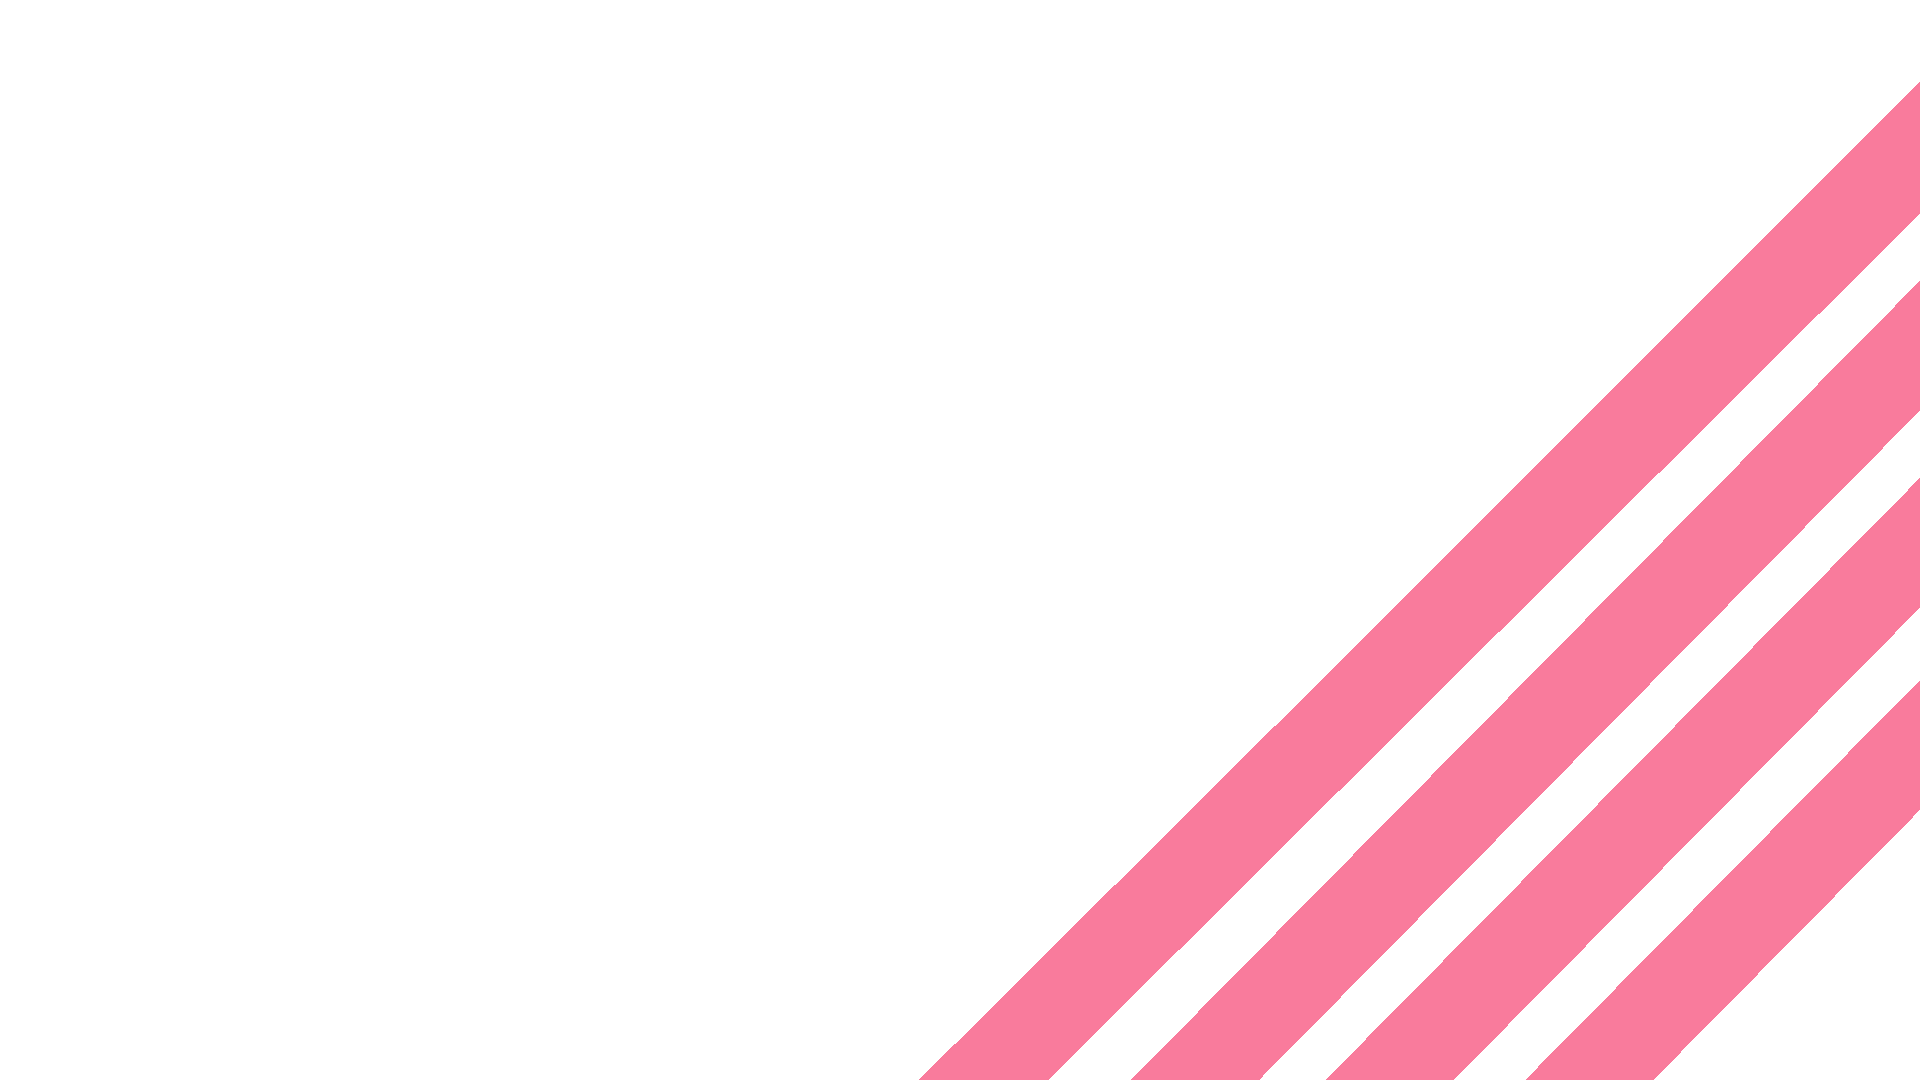
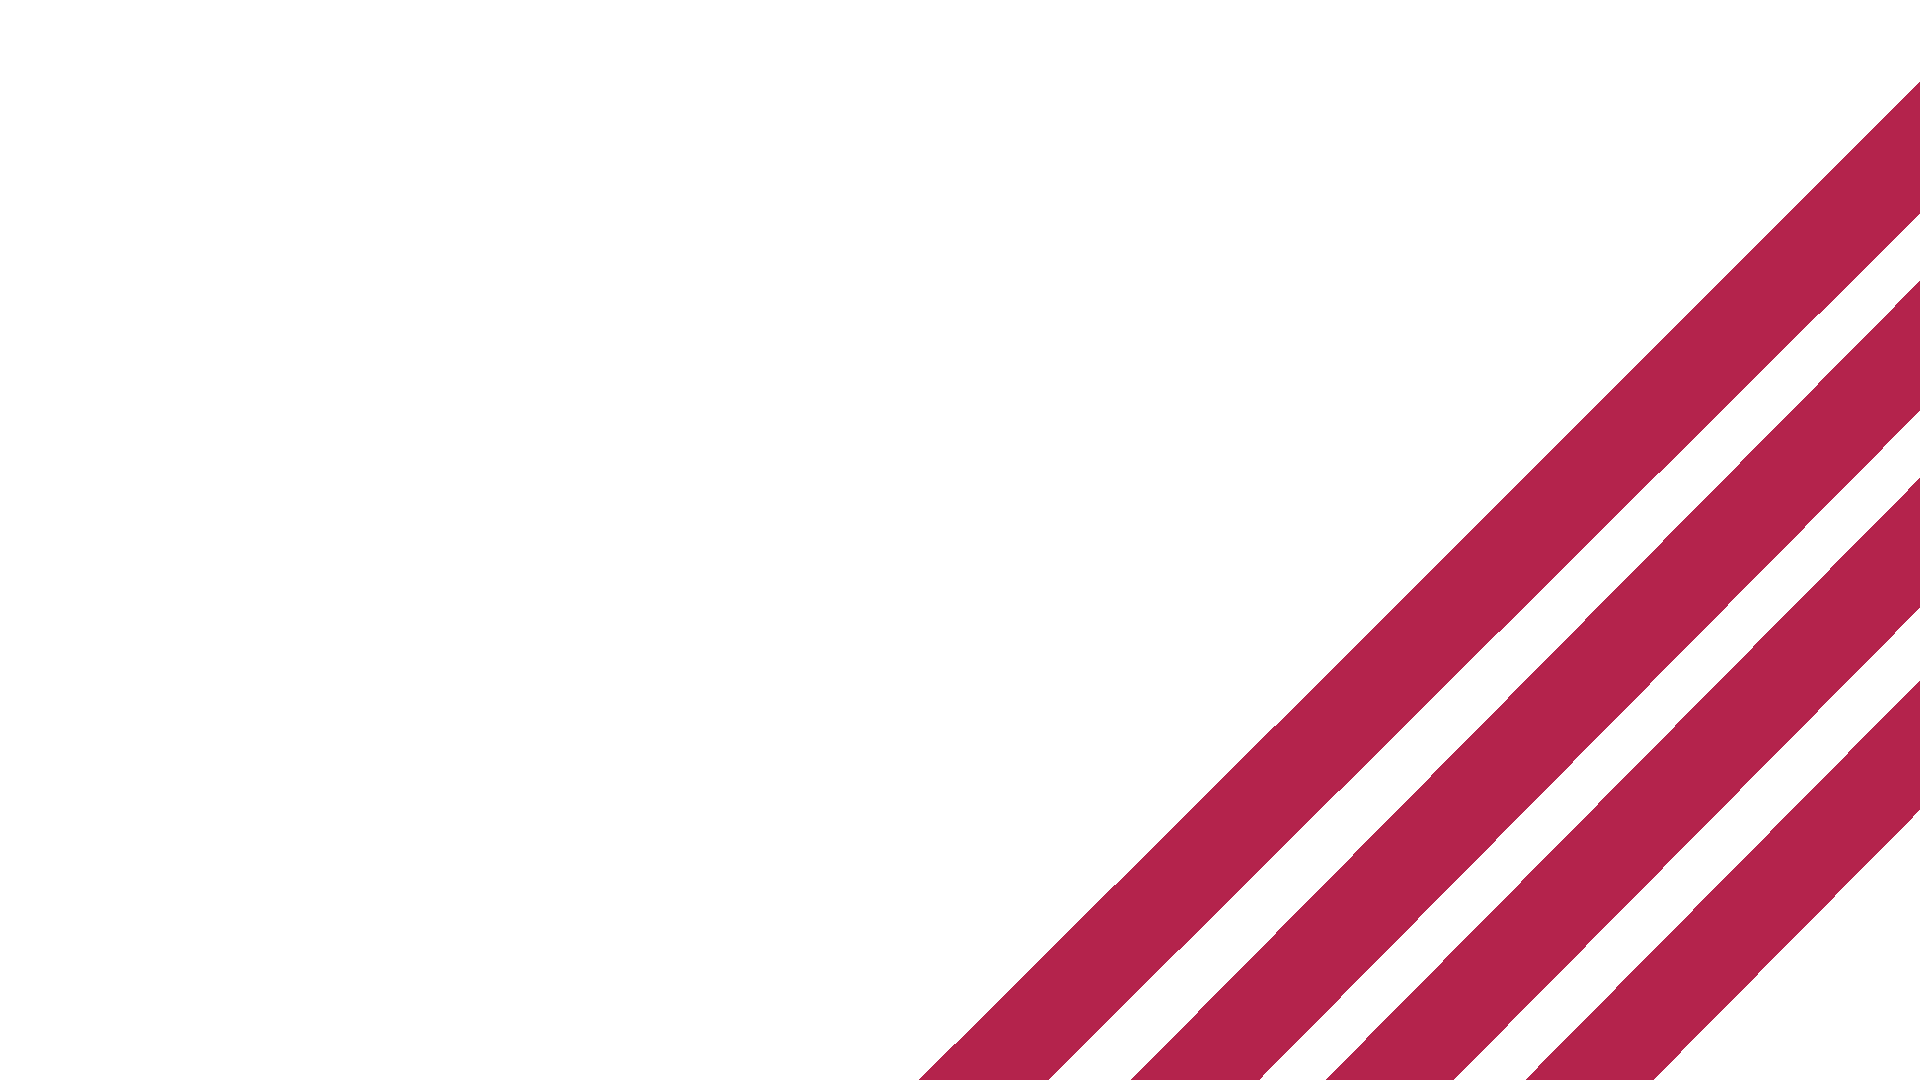
Update colors to create compliant contrast ratios

Changed region(s): [[0.4688, 0.0917, 1.0, 1.0]]

diff --git a/css/stylesheet.css b/css/stylesheet.css
@@ -12,7 +12,7 @@
 
 :root {
   --pink: #e54a72;
-  --pink-deep: #ce3f64;
+  --pink-deep: #b4234c;
   --pink-pale: #f5b3c4;
   --paper: #fffdfd;
   --ink: #252329;
@@ -80,7 +80,7 @@ p {
 
 .hero {
   min-height: 430px;
-  color: var(--pink);
+  color: var(--pink-deep);
   background:
     linear-gradient(
       90deg,
@@ -95,12 +95,12 @@ p {
   padding: 1.5rem clamp(1.5rem, 5vw, 4.5rem) 0;
 }
 .navbar-custom .navbar-brand {
-  color: var(--pink);
+  color: var(--pink-deep);
   font-family: "Gilroy-ExtraBold", Arial, sans-serif;
   font-size: 1.25rem;
 }
 .navbar-custom .nav-link {
-  color: var(--pink);
+  color: var(--pink-deep);
   font-weight: 700;
   padding: 0.5rem 0.7rem !important;
 }
@@ -129,7 +129,7 @@ p {
 }
 .section-pink {
   color: white;
-  background: var(--pink);
+  background: var(--pink-deep);
 }
 .section-white {
   color: var(--ink);
@@ -143,7 +143,7 @@ p {
   text-transform: uppercase;
 }
 .eyebrow.pink {
-  color: var(--pink);
+  color: var(--pink-deep);
 }
 .section-heading {
   margin-bottom: clamp(2.5rem, 5vw, 4.5rem);
@@ -163,7 +163,7 @@ p {
   font-size: 1.05rem;
 }
 .section-heading.light .section-intro {
-  color: rgba(255, 255, 255, 0.86);
+  color: white;
 }
 .centered {
   text-align: center;
@@ -221,11 +221,10 @@ p {
 }
 .quick-facts > div {
   padding: 1rem 1.1rem;
-  background: var(--pink);
+  background: var(--pink-deep);
 }
 .fact-label {
   display: block;
-  opacity: 0.75;
   font-size: 0.75rem;
   text-transform: uppercase;
   letter-spacing: 0.09em;
@@ -249,7 +248,7 @@ p {
 }
 .timeline-date {
   padding-top: 0.1rem;
-  color: var(--pink);
+  color: var(--pink-deep);
   font-weight: 700;
   letter-spacing: 0.04em;
 }
@@ -319,7 +318,7 @@ p {
   align-items: center;
 }
 .approach-copy h2 {
-  color: var(--pink);
+  color: var(--pink-deep);
   max-width: 12ch;
   margin-bottom: 1.5rem;
 }
@@ -403,7 +402,7 @@ p {
   top: 50%;
   transform: translate(-50%, -50%);
   padding: 0.75rem 1rem;
-  background: var(--pink);
+  background: var(--pink-deep);
   color: white;
   font-weight: 800;
   white-space: nowrap;
@@ -428,6 +427,10 @@ p {
 .itch-link {
   display: inline-flex;
   margin-top: 1.5rem;
+}
+.section-pink .itch-link {
+  padding: 3px;
+  background: white;
 }
 .itch-link img {
   width: 150px;
@@ -492,10 +495,10 @@ p {
 }
 .project-copy h3 {
   margin-bottom: 1rem;
-  color: var(--pink);
+  color: var(--pink-deep);
 }
 .project-copy a {
-  color: var(--pink);
+  color: var(--pink-deep);
   text-decoration: none;
 }
 .project-copy p {
